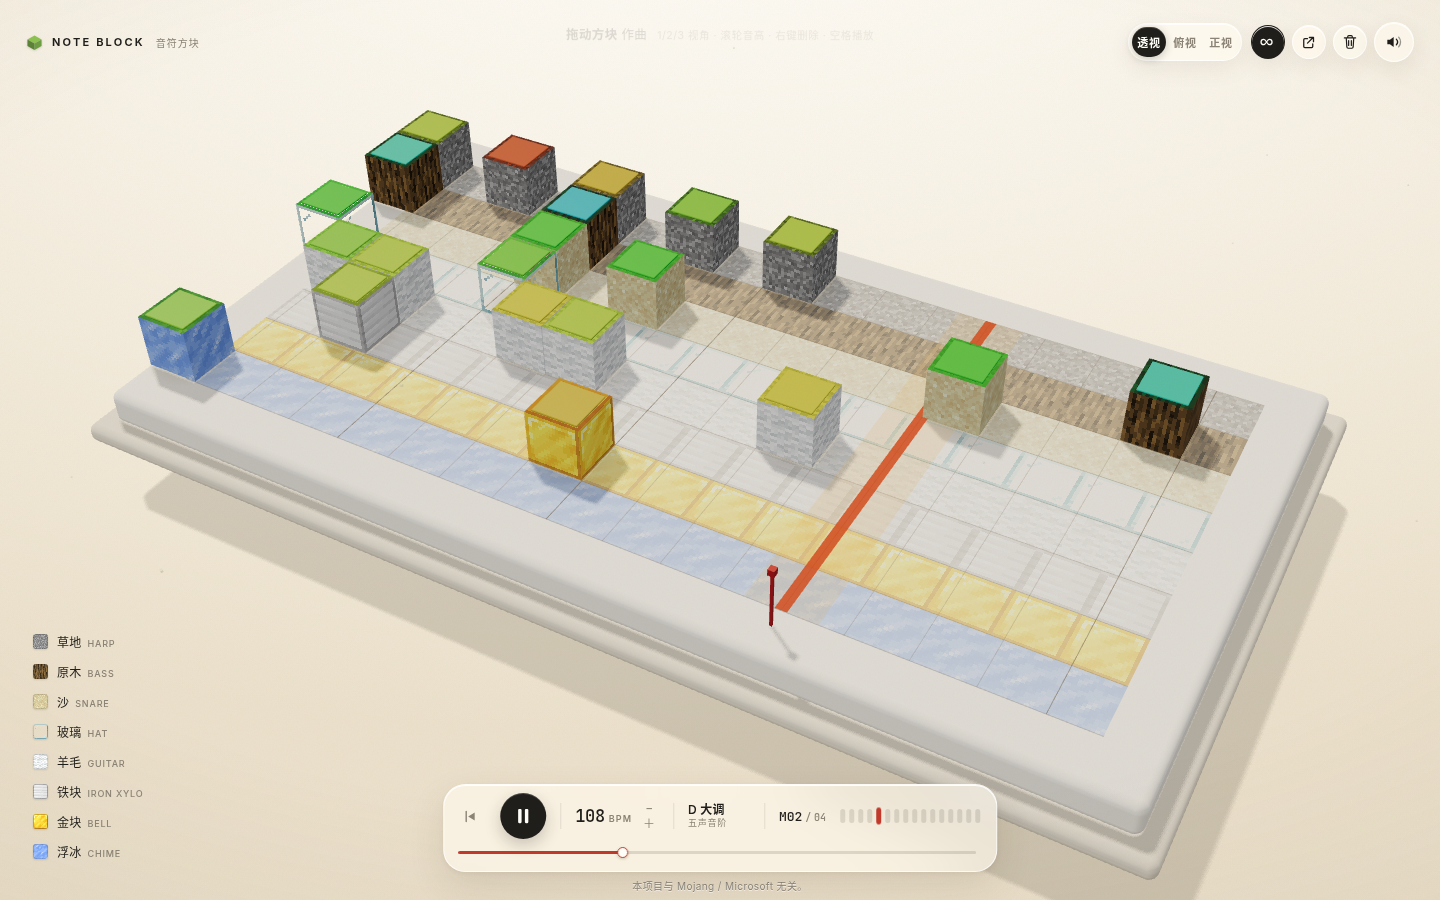
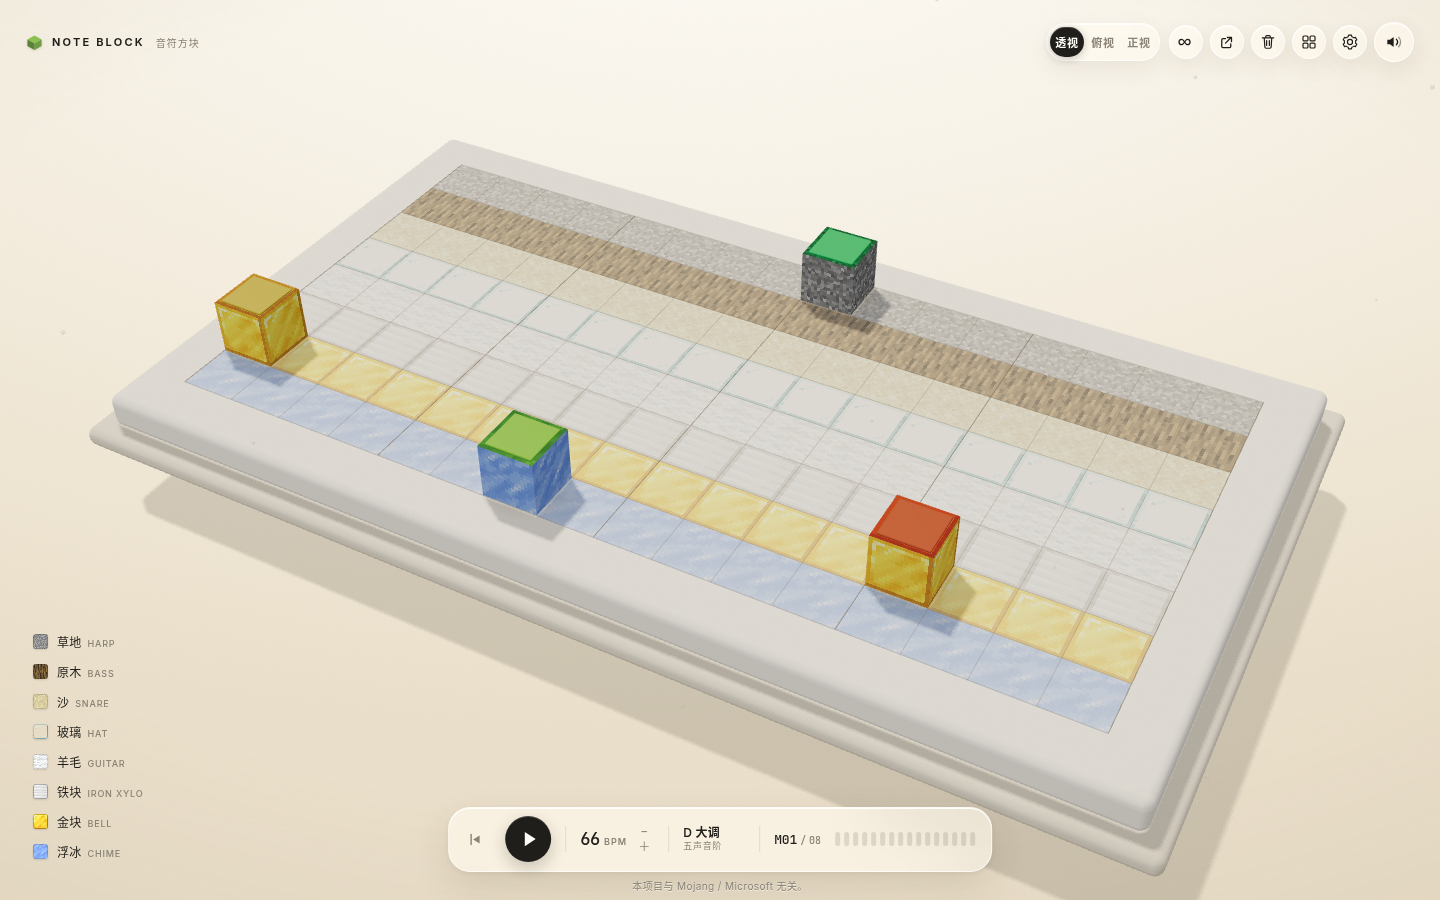
docs: v0.3 截图与示例/设置/宽棋盘图示

diff --git a/README.md b/README.md
@@ -15,6 +15,10 @@
 | --- | --- |
 | ![front](docs/show-front.png) | ![mobile](docs/show-mobile.png) |
 
+| 设置 · 曲长 / 循环 / 音量 | 示例 · 五套编配 | 拖边缘 · 8–32 列 |
+| --- | --- | --- |
+| ![config](docs/show-config.png) | ![examples](docs/show-examples.png) | ![wide](docs/show-wide.png) |
+
 ## 运行
 
 ```bash
